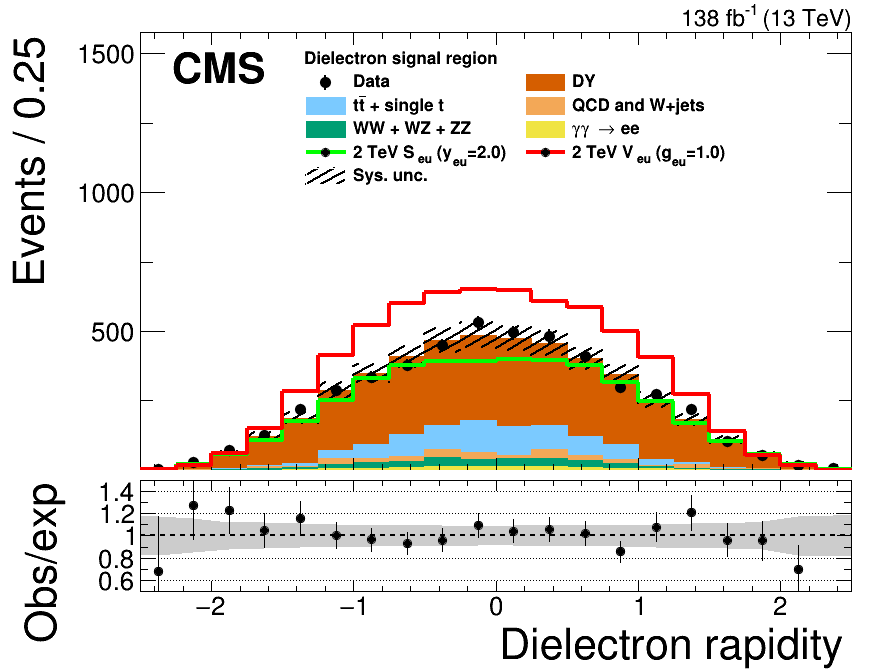
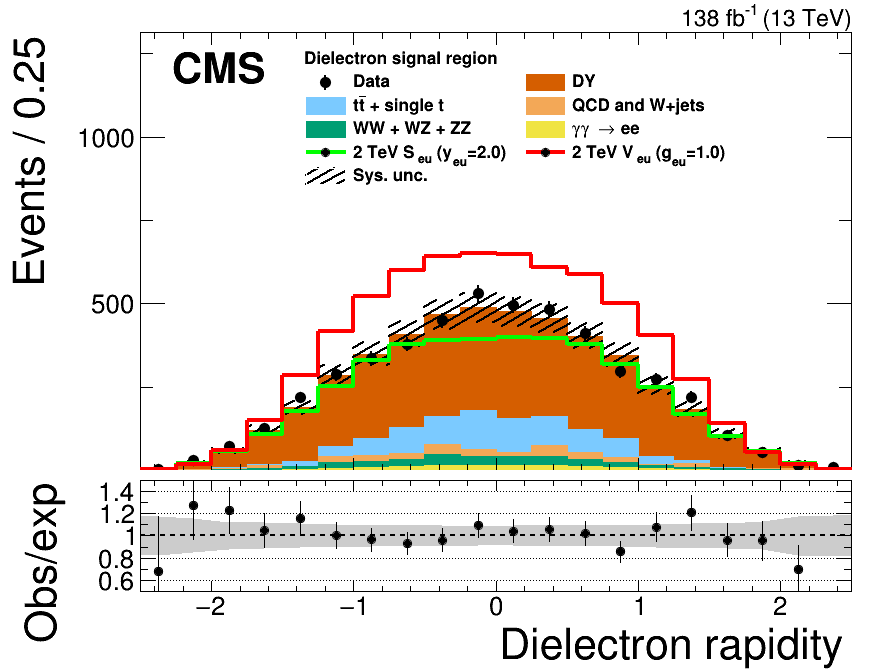
update

diff --git a/plots/ElEl/draw_cmp_from_saved.C b/plots/ElEl/draw_cmp_from_saved.C
@@ -478,7 +478,7 @@ void draw_cmp_from_saved(){
     int n_rap_bins = 20;
     float rap_bin_size = 5. / n_rap_bins;
 
-    hmax = 1500;
+    hmax = 1250;
 
     //if(year == 2016)
     //    hmax *= 0.625;
